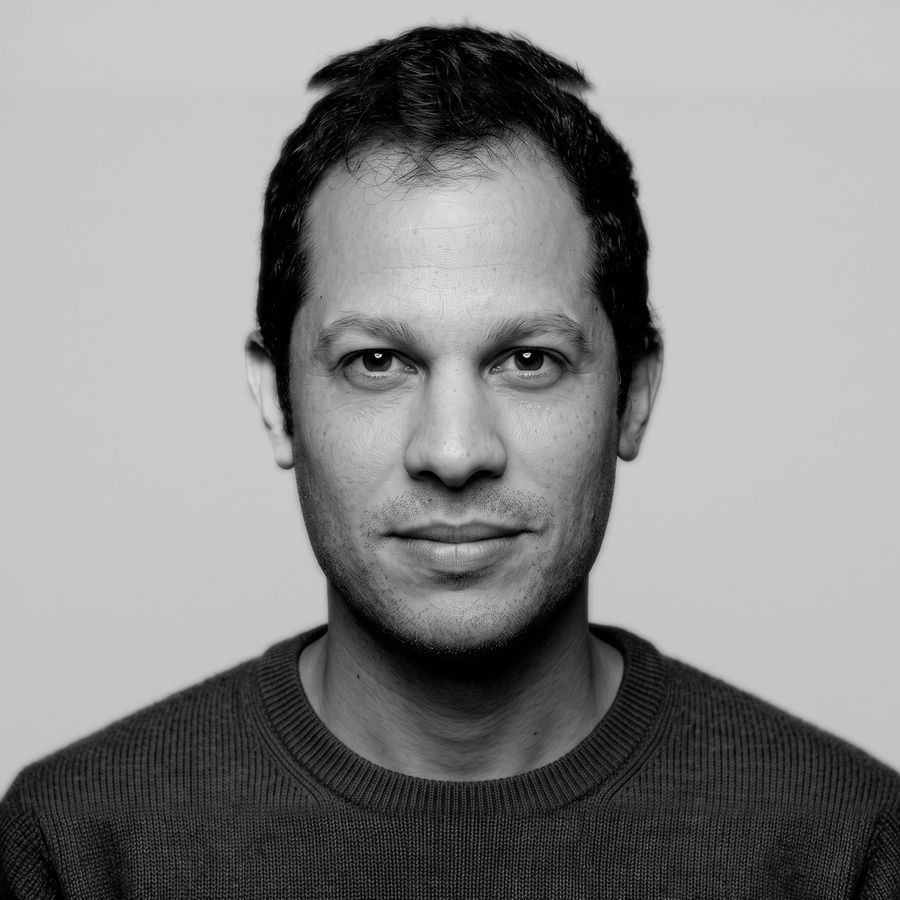
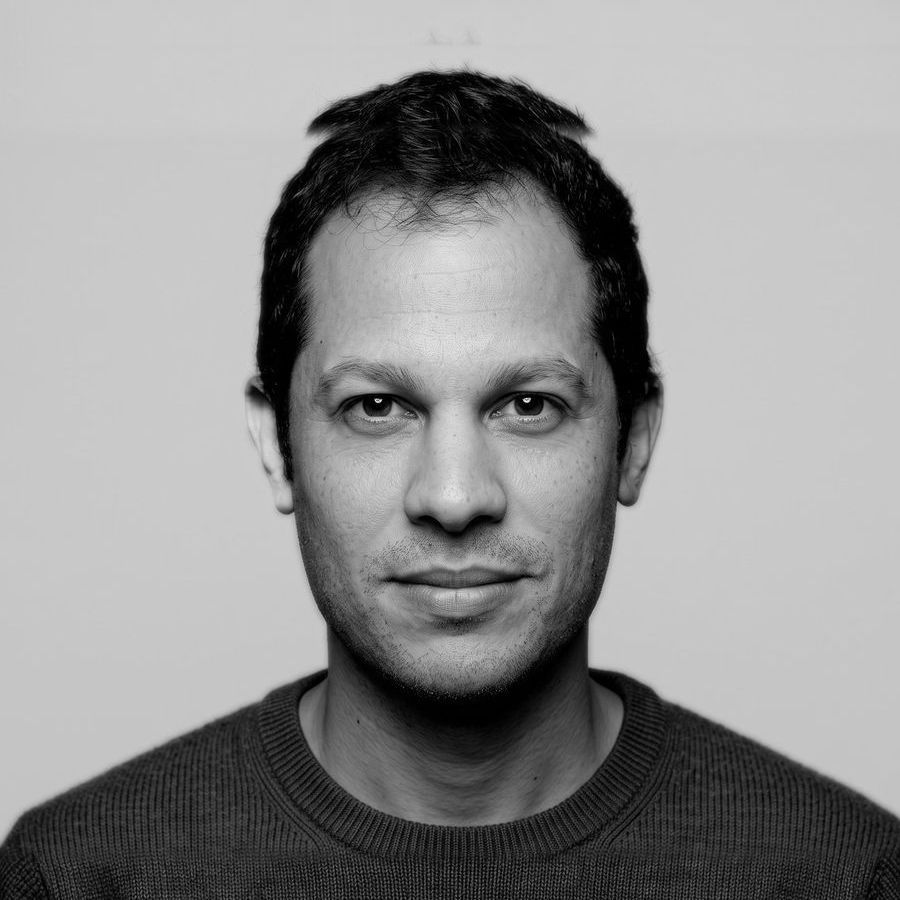
Brent settles five percent lower; the top band stays clean

Changed region(s): [[0.0, 0.0, 1.0, 1.0]]

diff --git a/team.html b/team.html
@@ -72,7 +72,7 @@
       </div>
       <figure class="team-quote__fig rv" aria-hidden="true">
         <span class="team-quote__bar"></span>
-        <img src="assets/img/team-quote.jpg?v=ad74baf5" alt="" width="900" height="900">
+        <img src="assets/img/team-quote.jpg?v=5dc999a1" alt="" width="900" height="900">
       </figure>
     </div>
   </div>
@@ -105,7 +105,7 @@
         <figcaption><b>Sherry Wilson</b><small>Project Lead</small></figcaption>
       </figure>
       <figure class="tcard tcard--c2 rv">
-        <img src="assets/img/team-p2.jpg?v=ad74baf5" alt="" width="900" height="900" loading="lazy">
+        <img src="assets/img/team-p2.jpg?v=5dc999a1" alt="" width="900" height="900" loading="lazy">
         <figcaption><b>Brent Matthys</b><small>UI/UX Designer</small></figcaption>
       </figure>
       <figure class="tcard tcard--c3 rv">
